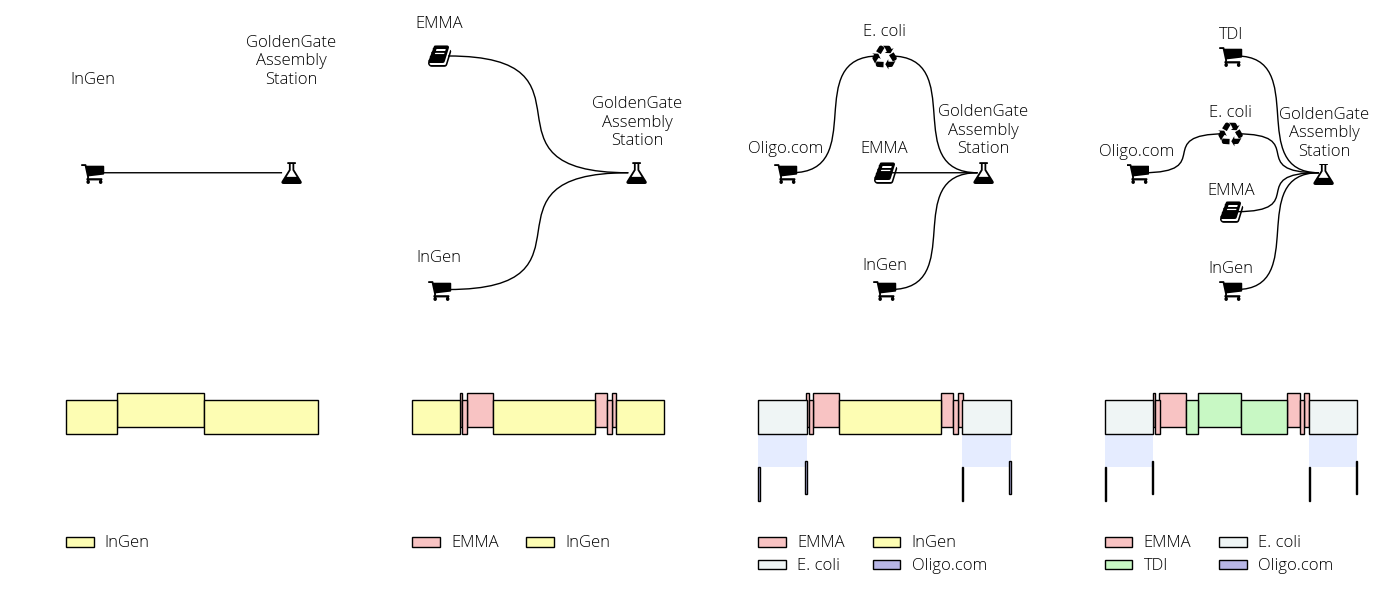
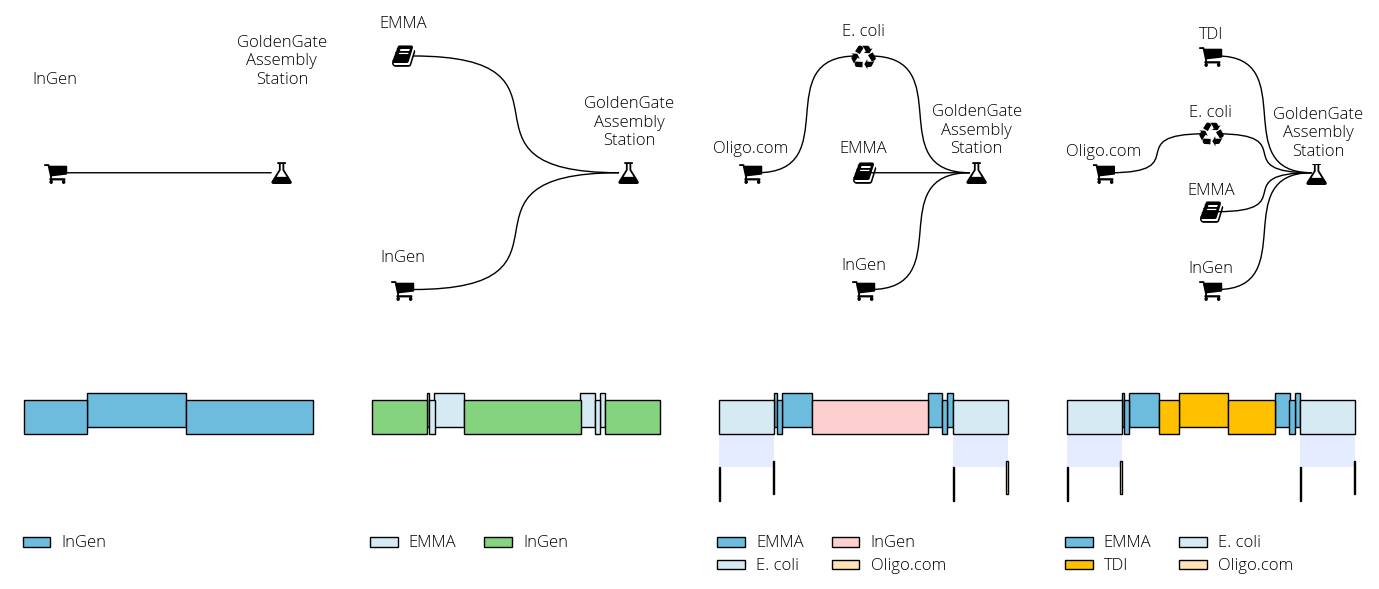
updated all examples

diff --git a/examples/scenarios/parts_assembly_with_ever_more_suppliers/plotting_helpers.py b/examples/scenarios/parts_assembly_with_ever_more_suppliers/plotting_helpers.py
@@ -1,8 +1,10 @@
 import numpy as np
 import matplotlib.pyplot as plt
 from matplotlib.gridspec import GridSpec
-from dnaweaver.reports import (AssemblyPlan, plot_assembly_blocks,
-                               autocolor_quote_sources, plot_supply_graph)
+from dnaweaver.AssemblyPlanReport.mixins.PlotsMixin.plot_supply_graph import (
+    plot_supply_graph,
+)
+
 
 def matplotlib_gridspecs_from_array(arr):
     arr = np.array(arr)
@@ -12,9 +14,9 @@ def matplotlib_gridspecs_from_array(arr):
     grid = GridSpec(h, w)
     for v in values_in_arr:
         xx, yy = ((arr - v) == 0).nonzero()
-        result.append(grid[xx.min(): xx.max() + 1,
-                           yy.min(): yy.max() + 1])
+        result.append(grid[xx.min() : xx.max() + 1, yy.min() : yy.max() + 1])
     return result
+
 
 def matplotlib_axes_from_gridspec_array(arr, figsize=None):
     """Returned axes layed out as indicated in the array
@@ -34,24 +36,22 @@ def matplotlib_axes_from_gridspec_array(arr, figsize=None):
     for gridspec in gridspecs:
         axes.append(fig.add_subplot(gridspec))
     return fig, axes
-        
 
 
 def plot_quote(quote, figsize=(4, 5), ylim=None, axes=None):
     """Plot a quote (supply network and assembly plan)"""
 
-    quote.compute_full_assembly_plan()
-    quote.compute_fragments_final_locations()
-    json_quote = AssemblyPlan.from_dnaweaver_quote(quote)
+    report = quote.to_assembly_plan_report()
     if axes is None:
         fig, axes = matplotlib_axes_from_gridspec_array(
-          [[1],[1], [2]], figsize=figsize)
+            [[1], [1], [2]], figsize=figsize
+        )
     else:
         fig = axes[0].figure
-    plot_supply_graph(json_quote, ax=axes[0], margin=0.2)
-    plot_assembly_blocks(
-        json_quote, parts_offset = 0.1, plot_top_assembly=False,
-        ax=axes[1], legend=True)
+    plot_supply_graph(report, ax=axes[0], margin=0.2)
+    report.plot_assembly_blocks(
+        parts_offset=0.1, plot_top_assembly=False, ax=axes[1], legend=True
+    )
     if ylim is not None:
         axes[1].set_ylim(*ylim)
     return fig, axes

diff --git a/examples/scenarios/manufacturability_optimization/manufacturability_optimization.py b/examples/scenarios/manufacturability_optimization/manufacturability_optimization.py
@@ -8,12 +8,7 @@ from dnaweaver import (
     NoPatternConstraint,
     SequenceLengthConstraint,
 )
-from dnaweaver.reports import (
-    AssemblyPlan,
-    plot_assembly_blocks,
-    autocolor_quote_sources,
-)
-from dnaweaver.OptimizeManufacturability import OptimizeManufacturability
+from dnaweaver.utils import OptimizeManufacturability
 
 import dnachisel
 
@@ -87,11 +82,8 @@ for title, quote, ax in zip(
     [quote_before, quote_after],
     axes,
 ):
-    quote.compute_fragments_final_locations()
-    json_quote = AssemblyPlan.from_dnaweaver_quote(quote)
-    autocolor_quote_sources(json_quote)
-    ax, _ = plot_assembly_blocks(
-        json_quote,
+    report = quote.to_assembly_plan_report()
+    ax, _ = report.plot_assembly_blocks(
         parts_offset=0.1,
         plot_top_assembly=False,
         legend=True,

diff --git a/examples/scenarios/site_mutagenesis_simple/site_mutagenesis_example.py b/examples/scenarios/site_mutagenesis_simple/site_mutagenesis_example.py
@@ -1,6 +1,5 @@
 import dnaweaver as dw
 import os
-from dnaweaver.reports import AssemblyPlan, make_folder_report
 
 oligos_company = dw.CommercialDnaOffer(
     "OligoCompany",
@@ -36,7 +35,6 @@ quote = assembly_station.get_quote(desired_sequence, with_assembly_plan=True)
 print(quote.assembly_step_summary())
 
 quote.compute_fragments_final_locations()
-json_quote = AssemblyPlan.from_dnaweaver_quote(quote)
-print ("Generating report...")
-make_folder_report(json_quote, "report.zip")
+report = quote.to_assembly_plan_report()
+report.write_full_report("report.zip")
 print ("Done! (see report.zip)")

diff --git a/examples/full_example.py b/examples/full_example.py
@@ -11,7 +11,7 @@ from dnaweaver import (
     SequenceLengthConstraint,
     NoPatternConstraint
 ) 
-from dnaweaver.reports import make_folder_report
+from dnaweaver.reports import write_full_report
 
 
 
@@ -132,5 +132,5 @@ quote = chunks_assembly_station.get_quote(sequence, with_assembly_plan=True)
 
 print (quote.assembly_step_summary())
 print ("Generating report...")
-make_folder_report(quote, "report.zip")
+write_full_report(quote, "report.zip")
 print ("Done! (see report.zip)")

diff --git a/dnaweaver/AssemblyPlanReport/mixins/FolderReportMixin.py b/dnaweaver/AssemblyPlanReport/mixins/FolderReportMixin.py
@@ -5,7 +5,7 @@ from ..config import SETTINGS
 
 class FolderReportMixin:
 
-    def make_folder_report(self, target="@memory"):
+    def write_full_report(self, target="@memory"):
         """Generate an extensive, multifile report as either a folder or a zip."""
 
         def write_ax_as_pdf(ax, target):

diff --git a/tests/test_full_report.py b/tests/test_full_report.py
@@ -172,7 +172,7 @@ def test_full_report():
     assert 3500 < quote.price < 3600
 
     report = quote.to_assembly_plan_report()
-    report.make_folder_report("@memory")
+    report.write_full_report("@memory")
     # report.plot_assembly_timeline(
     #     deadline=None,
     #     ax=None,

diff --git a/examples/scenarios/three-step_assembly/three-step_assembly.py b/examples/scenarios/three-step_assembly/three-step_assembly.py
@@ -155,6 +155,6 @@ print(quote.assembly_step_summary())
 
 print("Generating report...")
 assembly_plan_report = quote.to_assembly_plan_report()
-assembly_plan_report.make_folder_report("report.zip")
+assembly_plan_report.write_full_report("report.zip")
 
 print("Done! (see report.zip)")

diff --git a/README.rst b/README.rst
@@ -149,12 +149,12 @@ listing all operations needed, and genbank/fasta files of the sequences to order
 
 .. code:: python
 
-    from dnaweaver.reports import AssemblyPlan, make_folder_report
+    from dnaweaver.reports import AssemblyPlan, write_full_report
     ...
     quote = assembly_station.get_quote(sequence, with_assembly_plan=True)
     quote.compute_full_assembly_plan()
     json_quote = AssemblyPlan.from_dnaweaver_quote(quote)
-    make_folder_report(json_quote, "report.zip")
+    write_full_report(json_quote, "report.zip")
 
 Result:
 
